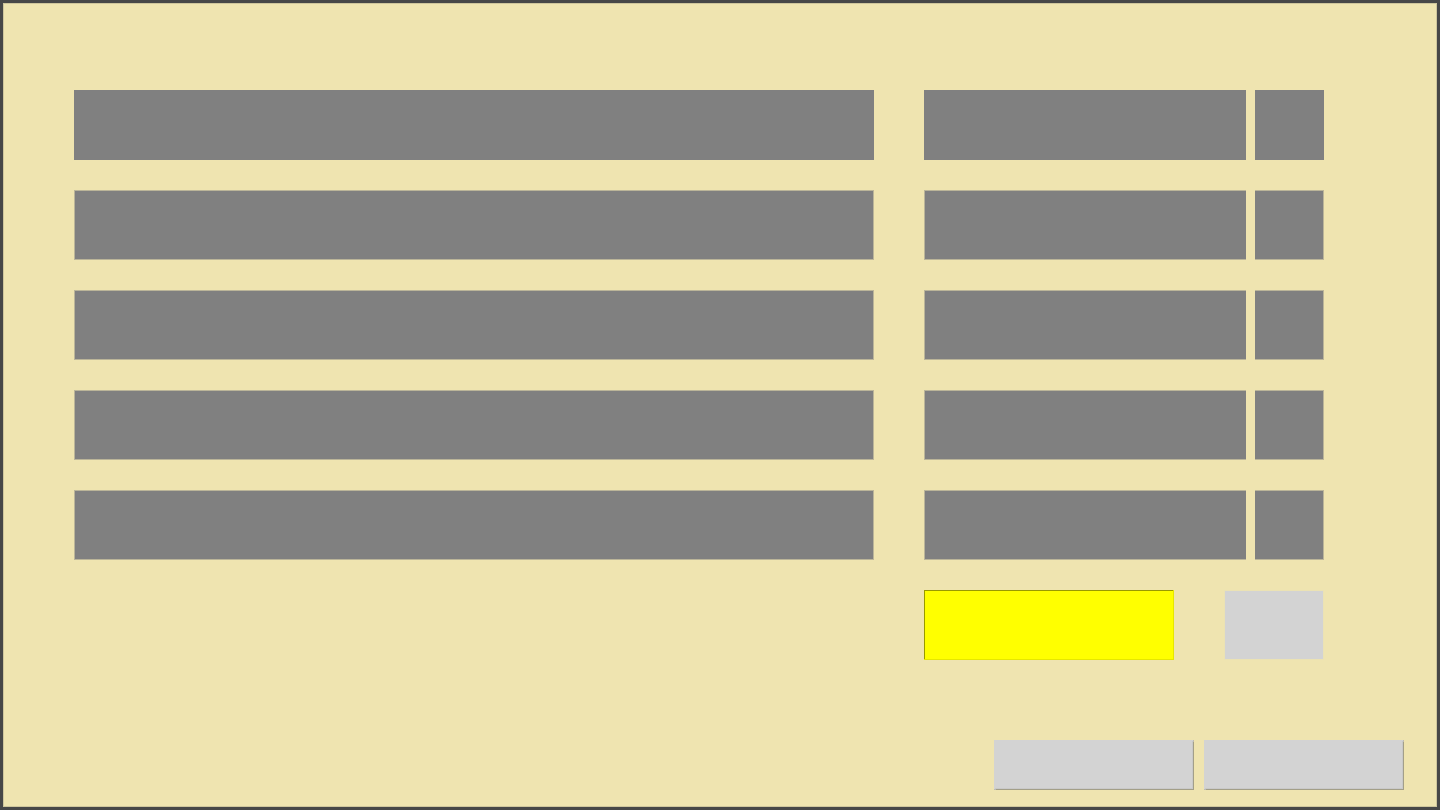
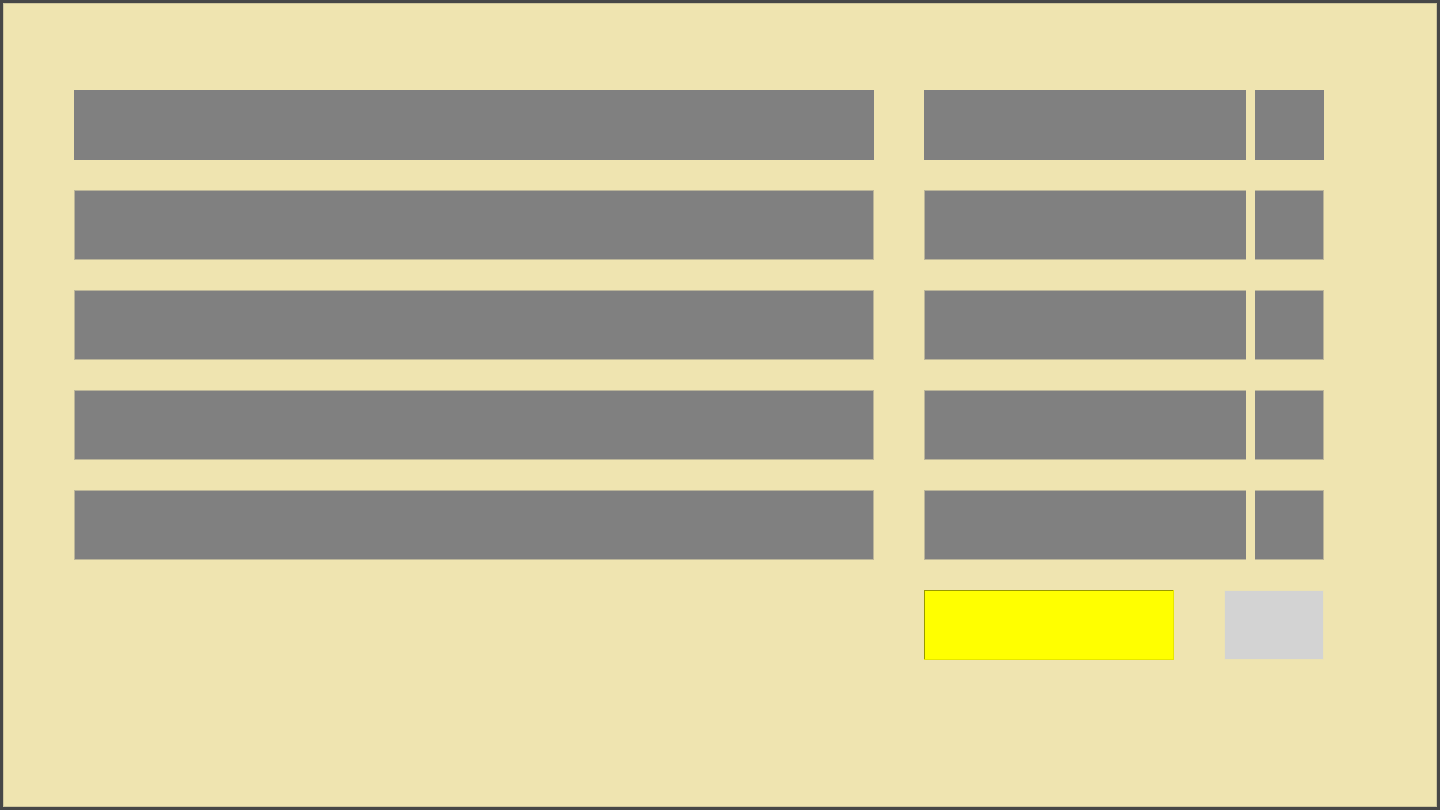
normalement ca marche

Changed region(s): [[0.6875, 0.8951, 1.0, 0.9877]]

diff --git a/main.py b/main.py
@@ -50,57 +50,61 @@ def page2():
     crea_question()
     jeu_solo.place(x=0, y=0)
 
+    label_background = Label(jeu_solo, image="")
+    file_background="images/fond_jeu.png"
+    background = PhotoImage(file=file_background)
+    label_background.configure(image=background)
+    label_background.image = background
+    label_background.place(x=0,y=0,width=longueur, height=largeur)
+    
     temps_0 = time.time()
 
     is_multi.set(0)
     temps_timer.set(0)
 
-    bouton_retour = StringVar()
-    bouton_retour=Button(jeu_solo, text='Retour', command=retour, font=police1)
-    bouton_retour.place(x=int(longueur)-210,y=int(largeur)-60,width=200, height=50)
 
     bouton_abandon = StringVar()
     bouton_abandon=Button(jeu_solo, text='Abandonner', command=abandon, font=police1)
-    bouton_abandon.place(x=int(longueur)-420,y=int(largeur)-60,width=200, height=50)
+    bouton_abandon.place(x=1204,y=740,width=200, height=50)
 
     #print('p2 appelé')
 
     textBoxReponse = Entry(jeu_solo, textvariable=var_reponse, width=40, font=police1, bg = 'yellow')
-    textBoxReponse.place(x=950,y=600,width=250, height=70)
+    textBoxReponse.place(x=924,y=590,width=250, height=70)
 
     label_timer = Label(jeu_solo, textvariable=temps_timer, font=police2 , background = 'lightgrey', anchor='center')
-    label_timer.place(x=1250,y=600,width=100, height=70)
+    label_timer.place(x=1224,y=590,width=100, height=70)
 
     label_q1 = Label(jeu_solo, textvariable=question1, font=police2 , background = 'lightgrey', anchor='center')
-    label_q1.place(x=100,y=100,width=800, height=70)
+    label_q1.place(x=74,y=90,width=800, height=70)
 
     label_q2 = Label(jeu_solo, textvariable=question2, font=police2, background = 'grey', anchor='center')
-    label_q2.place(x=100,y=200,width=800, height=70)
+    label_q2.place(x=74,y=190,width=800, height=70)
 
     label_q3 = Label(jeu_solo, textvariable=question3, font=police2, background = 'grey', anchor='center')
-    label_q3.place(x=100,y=300,width=800, height=70)
+    label_q3.place(x=74,y=290,width=800, height=70)
 
     label_q4 = Label(jeu_solo, textvariable=question4, font=police2, background = 'grey', anchor='center')
-    label_q4.place(x=100,y=400,width=800, height=70)
+    label_q4.place(x=74,y=390,width=800, height=70)
 
     label_q5 = Label(jeu_solo, textvariable=question5, font=police2, background = 'grey', anchor='center')
-    label_q5.place(x=100,y=500,width=800, height=70)
+    label_q5.place(x=74,y=490,width=800, height=70)
 
 
     label_r1 = Label(jeu_solo, textvariable=var_reponse, font=police1, background = 'lightgrey', anchor='center')
-    label_r1.place(x=950,y=100,width=400, height=70)
+    label_r1.place(x=924,y=90,width=400, height=70)
 
     label_r2 = Label(jeu_solo, textvariable=reponse_entree2, font=police1, background = 'grey', anchor='center')
-    label_r2.place(x=950,y=200,width=400, height=70)
+    label_r2.place(x=924,y=190,width=400, height=70)
 
     label_r3 = Label(jeu_solo, textvariable=reponse_entree3, font=police1, background = 'grey', anchor='center')
-    label_r3.place(x=950,y=300,width=400, height=70)
+    label_r3.place(x=924,y=290,width=400, height=70)
 
     label_r4 = Label(jeu_solo, textvariable=reponse_entree4, font=police1, background = 'grey', anchor='center')
-    label_r4.place(x=950,y=400,width=400, height=70)
+    label_r4.place(x=924,y=390,width=400, height=70)
 
     label_r5 = Label(jeu_solo, textvariable=reponse_entree5, font=police1, background = 'grey', anchor='center')
-    label_r5.place(x=950,y=500,width=400, height=70)
+    label_r5.place(x=924,y=490,width=400, height=70)
 
     update_temps()
 
@@ -114,6 +118,14 @@ def page3():
     temps=temps_1-temps_0
 
     reset()
+
+    label_background = Label(gagne_solo, image="")
+    file_background="images/fin_solo_victoire.png"
+    background = PhotoImage(file=file_background)
+    label_background.configure(image=background)
+    label_background.image = background
+    label_background.place(x=0,y=0,width=longueur, height=largeur)
+    
     gagne_solo.place(x=0, y=0)
     label_q1 = Label(gagne_solo, text='Bien-joué tu as mis : '+str(round(temps))+'s', font=police1 , background = 'grey', anchor='center')
     label_q1.place(x=(int(longueur)/2)-250,y=200,width=500, height=70)
@@ -121,21 +133,28 @@ def page3():
 
     bouton_rejouer = StringVar()
     bouton_rejouer=Button(gagne_solo, text='Rejouer', command=page2, font=police1)
-    bouton_rejouer.place(x=(int(longueur)/2)-100,y=400,width=200, height=50)
+    bouton_rejouer.place(x=1200,y=400,width=200, height=50)
 
     bouton_menu = StringVar()
     bouton_menu=Button(gagne_solo, text='Menu', command=retour, font=police1)
-    bouton_menu.place(x=(int(longueur)/2)-100,y=475,width=200, height=50)
+    bouton_menu.place(x=1200,y=475,width=200, height=50)
 
     bouton_quitter = StringVar()
     bouton_quitter=Button(gagne_solo, text='Quitter', command=quitter, font=police1)
-    bouton_quitter.place(x=(int(longueur)/2)-100,y=550,width=200, height=50)
-    
+    bouton_quitter.place(x=1200,y=550,width=200, height=50)
 
+    
 def page4():
     global selec_jeu
     reset()
     selec_jeu.place(x=0, y=0)
+
+    label_background = Label(selec_jeu, image="")
+    file_background="images/menu_jouer.png"
+    background = PhotoImage(file=file_background)
+    label_background.configure(image=background)
+    label_background.image = background
+    label_background.place(x=0,y=0,width=longueur, height=largeur)
     
     bouton_solo = StringVar()
     bouton_solo=Button(selec_jeu, text='Solo',command=page2, font=police1)
@@ -149,19 +168,19 @@ def page4():
     bouton_retour = StringVar()
     bouton_retour=Button(selec_jeu, text='Retour',command=retour, font=police1)
     bouton_retour.place(x=(int(longueur)/2)-100,y=650,width=200, height=50)
-
     
-    image_logo = Label(selec_jeu, image="")
-    file_logo="logo.png"
-    logo = PhotoImage(file=file_logo)
-    image_logo.configure(image=logo)
-    image_logo.image = logo
-    image_logo.place(x=440,y=150,width=624, height=240)
 
 def page5():
     global choix_multi
     reset()
     choix_multi.place(x=0, y=0)
+
+    label_background = Label(choix_multi, image="")
+    file_background="images/menu_jouer_multi.png"
+    background = PhotoImage(file=file_background)
+    label_background.configure(image=background)
+    label_background.image = background
+    label_background.place(x=0,y=0,width=longueur, height=largeur)
 
     is_multi.set(1)
     print("multi? : "+str(is_multi.get()))
@@ -180,18 +199,18 @@ def page5():
     bouton_retour.place(x=(int(longueur)/2)-90,y=650,width=220, height=50)
 
     
-    image_logo = Label(choix_multi, image="")
-    file_logo="logo.png"
-    logo = PhotoImage(file=file_logo)
-    image_logo.configure(image=logo)
-    image_logo.image = logo
-    image_logo.place(x=440,y=150,width=624, height=240)
-
 def page6():
     global recherche_multi
 
     reset()
     recherche_multi.place(x=0, y=0)
+
+    label_background = Label(recherche_multi, image="")
+    file_background="images/menu_jouer_multi_rejoindre.png"
+    background = PhotoImage(file=file_background)
+    label_background.configure(image=background)
+    label_background.image = background
+    label_background.place(x=0,y=0,width=longueur, height=largeur)
 
     recherche_pseudo.set("Anonymous")
 
@@ -220,30 +239,20 @@ def page7():
     lobby_multi.place(x=0, y=0)
 
     
-    image_logo = Label(lobby_multi, image="")
-    file_logo="logo.png"
-    logo = PhotoImage(file=file_logo)
-    image_logo.configure(image=logo)
-    image_logo.image = logo
-    image_logo.place(x=640,y=450,width=624, height=240)
+    label_background = Label(lobby_multi, image="")
+    file_background="images/lobby_multi_client.png"
+    background = PhotoImage(file=file_background)
+    label_background.configure(image=background)
+    label_background.image = background
+    label_background.place(x=0,y=0,width=longueur, height=largeur)
+
 
     label_ip = Label(lobby_multi, textvariable=local_ip, font=police1, background = 'lightgrey', anchor='center')
     label_ip.place(x=860,y=715,width=300, height=70)
-    """
-    bouton_soloaaa = StringVar()
-    bouton_soloaaa=Button(lobby_multi, text='Créer partie',command=new_envent_lobby, font=police1)
-    bouton_soloaaa.place(x=1000-90,y=450,width=220, height=50)
-
-    bouton_jouer_multi = StringVar()
-    bouton_jouer_multi=Button(lobby_multi, text='Jouer',command=page8, font=police1)
-    bouton_jouer_multi.place(x=1000-90,y=350,width=220, height=50)
-    """
+  
     bouton_quit_retour = StringVar()
     bouton_quit_retour=Button(lobby_multi, text='Retour au menu',command=quitter_multi, font=police1)
     bouton_quit_retour.place(x=1190,y=735,width=220, height=50)
-
-
-
 
 
     #new_event_lobby()
@@ -269,42 +278,49 @@ def page8():
     """
     #print('p2 appelé')
 
-    label_timer = Label(jeu_multi, textvariable=temps_timer, font=police2 , background = 'lightgrey', anchor='center')
-    label_timer.place(x=1250,y=600,width=100, height=70)
+    label_background = Label(jeu_multi, image="")
+    file_background="images/fond_jeu.png"
+    background = PhotoImage(file=file_background)
+    label_background.configure(image=background)
+    label_background.image = background
+    label_background.place(x=0,y=0,width=longueur, height=largeur)
 
     textBoxReponse = Entry(jeu_multi, textvariable=var_reponse, width=40, font=police1, bg = 'yellow')
-    textBoxReponse.place(x=950,y=600,width=250, height=70)
+    textBoxReponse.place(x=924,y=590,width=250, height=70)
+
+    label_timer = Label(jeu_multi, textvariable=temps_timer, font=police2 , background = 'lightgrey', anchor='center')
+    label_timer.place(x=1224,y=590,width=100, height=70)
 
     label_q1 = Label(jeu_multi, textvariable=question1, font=police2 , background = 'lightgrey', anchor='center')
-    label_q1.place(x=100,y=100,width=800, height=70)
+    label_q1.place(x=74,y=90,width=800, height=70)
 
     label_q2 = Label(jeu_multi, textvariable=question2, font=police2, background = 'grey', anchor='center')
-    label_q2.place(x=100,y=200,width=800, height=70)
+    label_q2.place(x=74,y=190,width=800, height=70)
 
     label_q3 = Label(jeu_multi, textvariable=question3, font=police2, background = 'grey', anchor='center')
-    label_q3.place(x=100,y=300,width=800, height=70)
+    label_q3.place(x=74,y=290,width=800, height=70)
 
     label_q4 = Label(jeu_multi, textvariable=question4, font=police2, background = 'grey', anchor='center')
-    label_q4.place(x=100,y=400,width=800, height=70)
+    label_q4.place(x=74,y=390,width=800, height=70)
 
     label_q5 = Label(jeu_multi, textvariable=question5, font=police2, background = 'grey', anchor='center')
-    label_q5.place(x=100,y=500,width=800, height=70)
+    label_q5.place(x=74,y=490,width=800, height=70)
 
 
     label_r1 = Label(jeu_multi, textvariable=var_reponse, font=police1, background = 'lightgrey', anchor='center')
-    label_r1.place(x=950,y=100,width=400, height=70)
+    label_r1.place(x=924,y=90,width=400, height=70)
 
     label_r2 = Label(jeu_multi, textvariable=reponse_entree2, font=police1, background = 'grey', anchor='center')
-    label_r2.place(x=950,y=200,width=400, height=70)
+    label_r2.place(x=924,y=190,width=400, height=70)
 
     label_r3 = Label(jeu_multi, textvariable=reponse_entree3, font=police1, background = 'grey', anchor='center')
-    label_r3.place(x=950,y=300,width=400, height=70)
+    label_r3.place(x=924,y=290,width=400, height=70)
 
     label_r4 = Label(jeu_multi, textvariable=reponse_entree4, font=police1, background = 'grey', anchor='center')
-    label_r4.place(x=950,y=400,width=400, height=70)
+    label_r4.place(x=924,y=390,width=400, height=70)
 
     label_r5 = Label(jeu_multi, textvariable=reponse_entree5, font=police1, background = 'grey', anchor='center')
-    label_r5.place(x=950,y=500,width=400, height=70)
+    label_r5.place(x=924,y=490,width=400, height=70)
 
     update_temps()
 
@@ -317,9 +333,16 @@ def page9():
     temps_1 = time.time()
     temps=temps_1-temps_0
 
+    label_background = Label(jeu_multi, image="")
+    file_background="images/fin_multi.png"
+    background = PhotoImage(file=file_background)
+    label_background.configure(image=background)
+    label_background.image = background
+    label_background.place(x=0,y=0,width=longueur, height=largeur)
+
     reset()
     gagne_multi.place(x=0, y=0)
-    label_q1 = Label(gagne_multi, text='Bien-joué tu as mis : '+str(round(temps))+'s', font=police1 , background = 'grey', anchor='center')
+    label_q1 = Label(gagne_multi, text=str(round(temps))+'s', font=police1 , background = 'grey', anchor='center')
     label_q1.place(x=(int(longueur)/2)-250,y=200,width=500, height=70)
 
 
